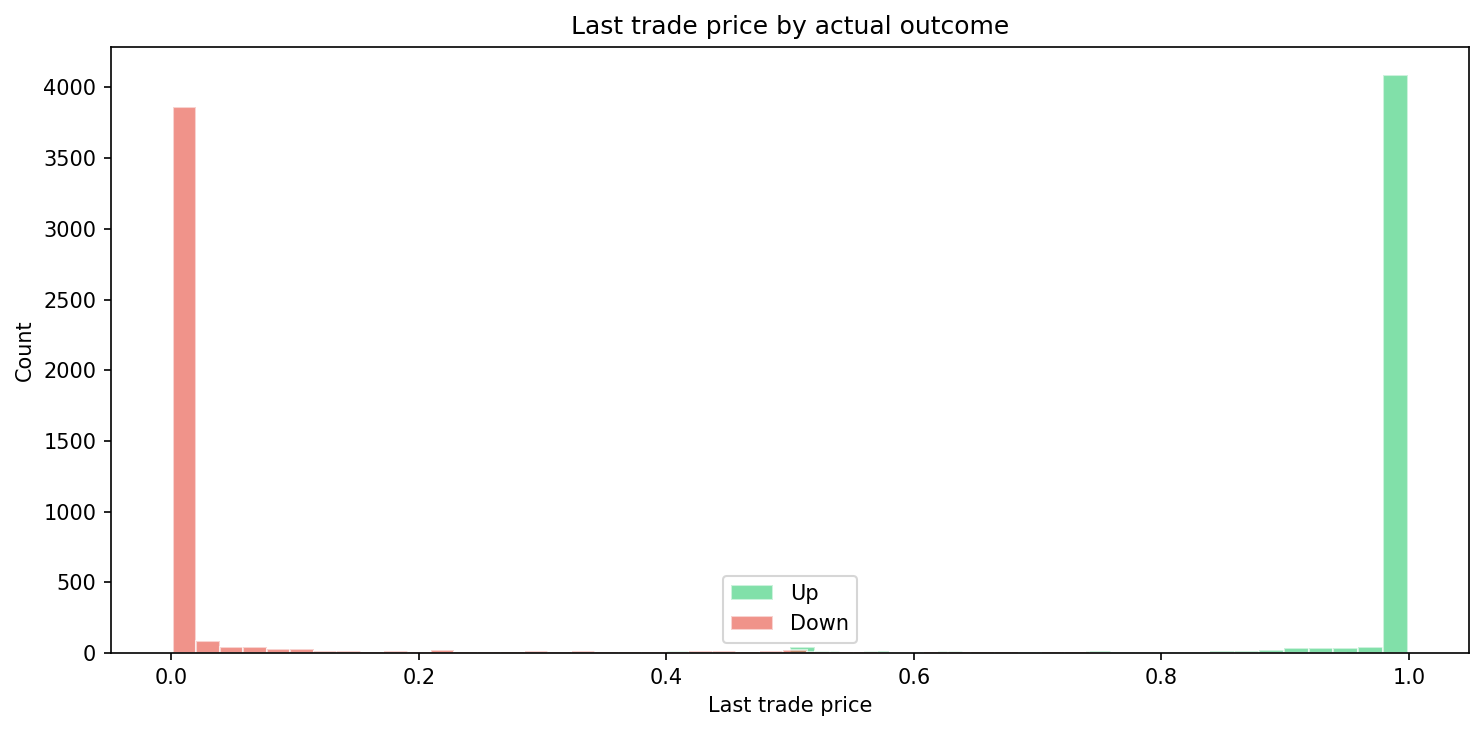
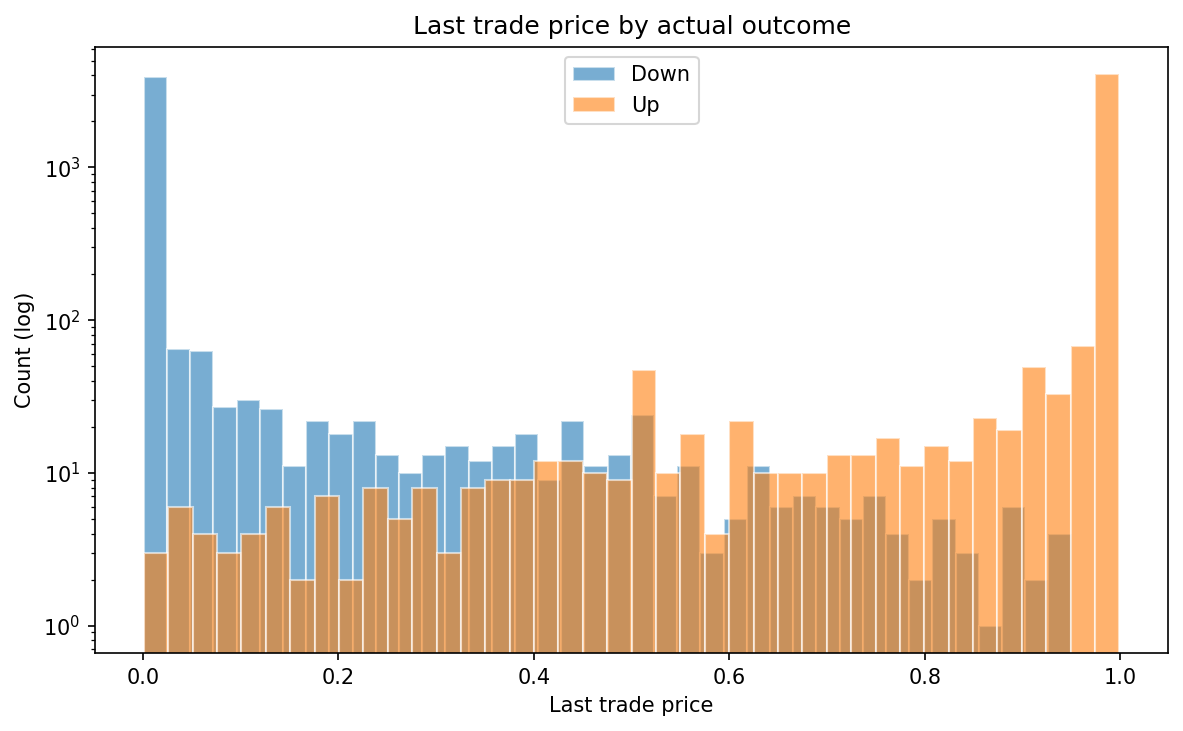
Refine README.md to enhance clarity on last trade price distribution and calibration error analysis. Update descriptions for better understanding of market behavior as resolution approaches.

Changed region(s): [[0.0, 0.0602, 1.0, 0.933], [0.3347, 0.0, 0.7303, 0.1806], [0.4565, 0.933, 0.6086, 0.9932]]

diff --git a/README.md b/README.md
@@ -56,11 +56,11 @@ We built a custom dataset by querying Polymarket's API and matching trades with 
 | Up rate | 51.4% (4,719 Up / 4,462 Down) |
 | Median bid-ask spread | 1 cent |
 
-**Last trade price by outcome** - The last traded price acts as the market's final implied probability. Splitting by actual outcome reveals a clear separation: Up markets cluster near price 1, Down markets near 0, confirming that the market is informative. The overlap around 0.5 represents genuinely uncertain markets.
+**Last trade price by outcome** - This histogram (log scale) shows the distribution of the last Up token price before market resolution, split by actual outcome. In the vast majority of cases the token is worth 0 or 1 just before the close, since uncertainty is virtually zero at that point. The remaining values are mostly noise, except for a notable spike at 0.5, which corresponds to the rare markets where BTC experienced a very large price swing and doubt persisted until the very last second.
 
 ![Last trade price by outcome](notebooks/last_trade_price_outcome.png)
 
-**Calibration error across time horizons** - We measure calibration error (actual Up rate minus implied probability) at 5, 4, 3, 2, and 1 minute before close. The 5-min curve shows the largest deviations, while the 1-min curve is nearly flat at zero. This confirms that price accuracy improves as the market approaches resolution, which is the core dynamic our visualization will explore.
+**Calibration error across time horizons** - For each time horizon (5, 4, 3, 2, 1 min before close), we bucket markets by their implied probability (average trade price) and compare it to the actual Up rate. The y-axis shows the calibration error: actual Up rate minus implied probability. A perfectly calibrated market would sit at y = 0. At market open (5 min), implied probabilities stay between 0.4 and 0.6 and the outcome is essentially random. Interestingly, after just 1 minute the calibration already improves noticeably, and it keeps getting better as the close approaches - the 1-min curve is nearly flat at zero.
 
 ![Calibration error](notebooks/calibration_error.png)
 
